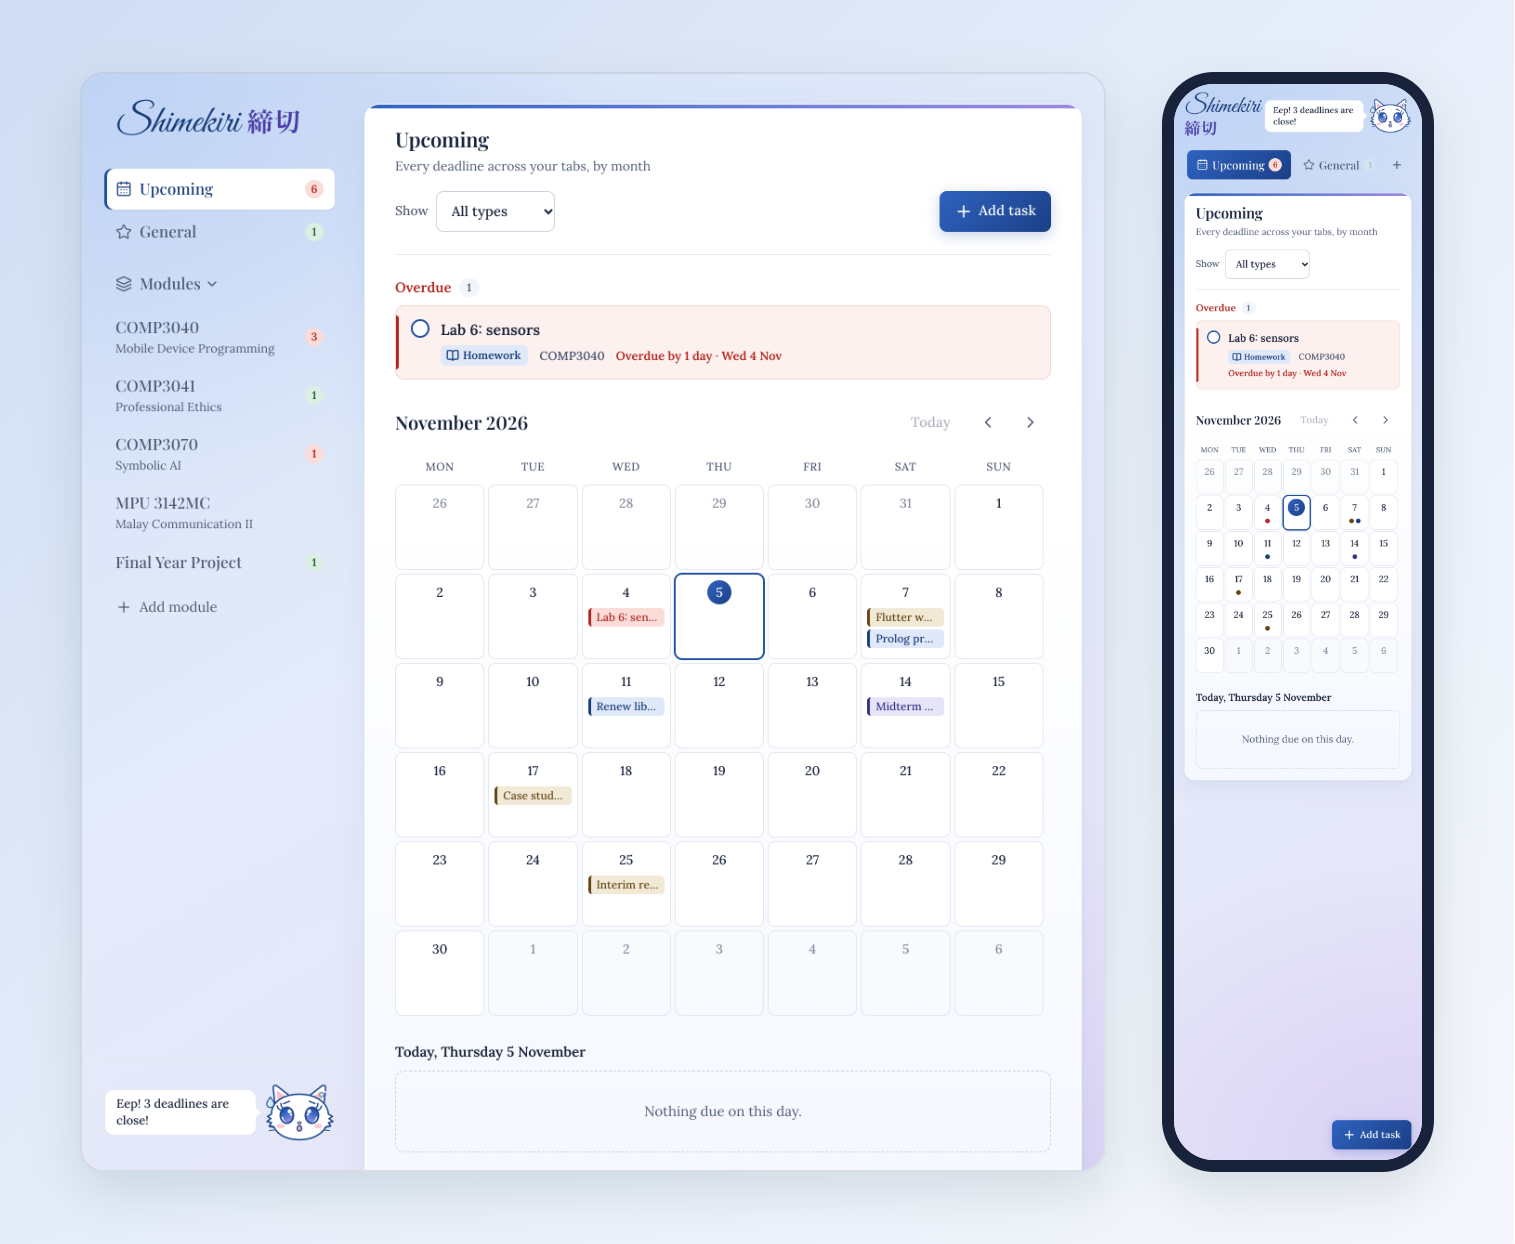
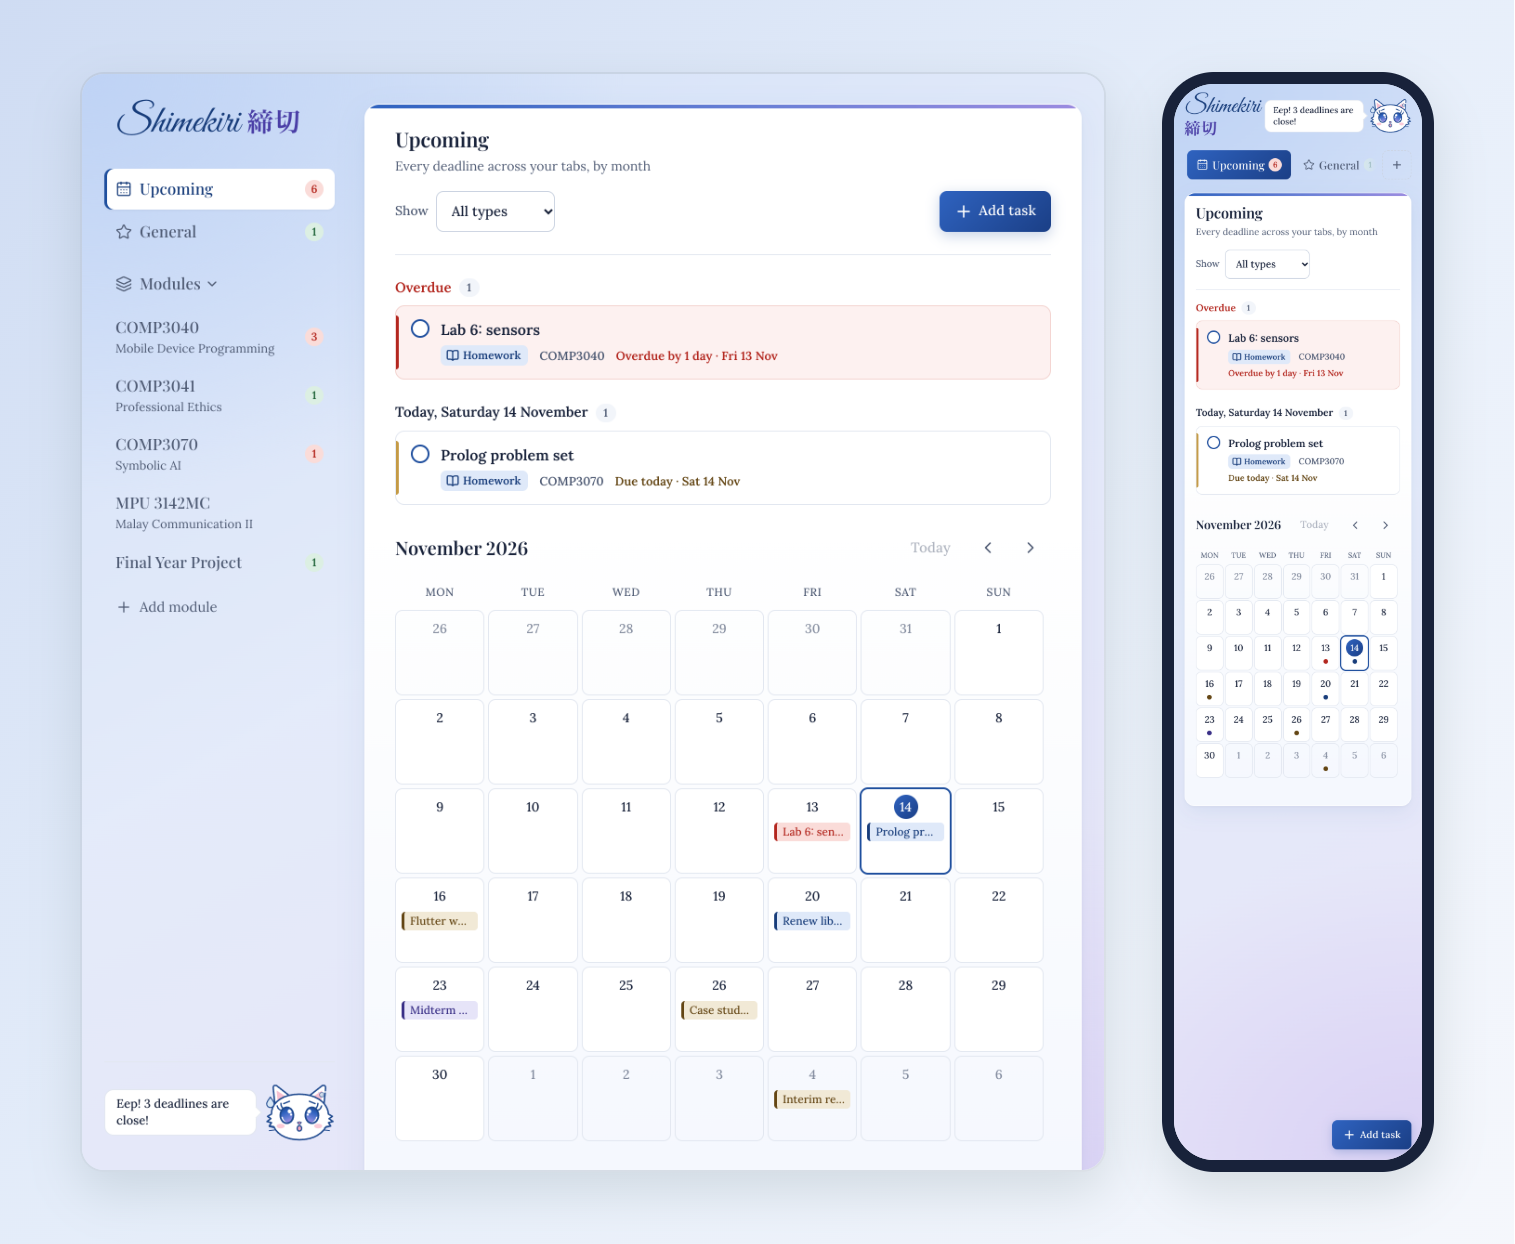
docs: refresh the calendar screenshot and wording for the new order

diff --git a/README.md b/README.md
@@ -16,7 +16,7 @@ Shimekiri-chan, a jewel-eyed cat, keeps an eye on what's coming up.
   are left: green normally, red when something is urgent.
 - **Upcoming calendar:** a month view of every unfinished task across all tabs. Each
   day shows its tasks as coloured chips (dots on phones). Pick a day to list its
-  tasks, and Add task fills in that date. Overdue work is listed above the calendar
+  tasks above the grid, and Add task fills in that date. Overdue work is listed at the top
   so it can't hide in an earlier month.
 - **Task types:** Exam, Homework and Coursework, each with its own coloured tag and
   icon. Tabs group tasks into collapsible sections by type, with a filter to show one
